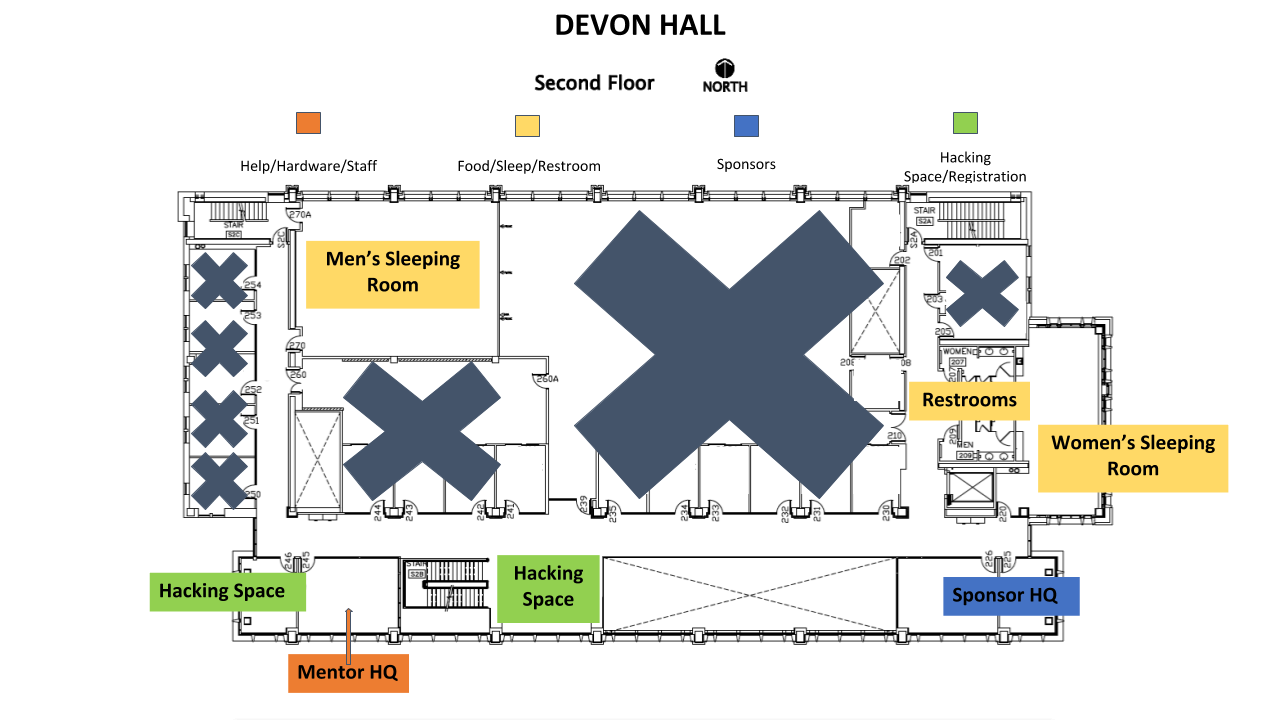
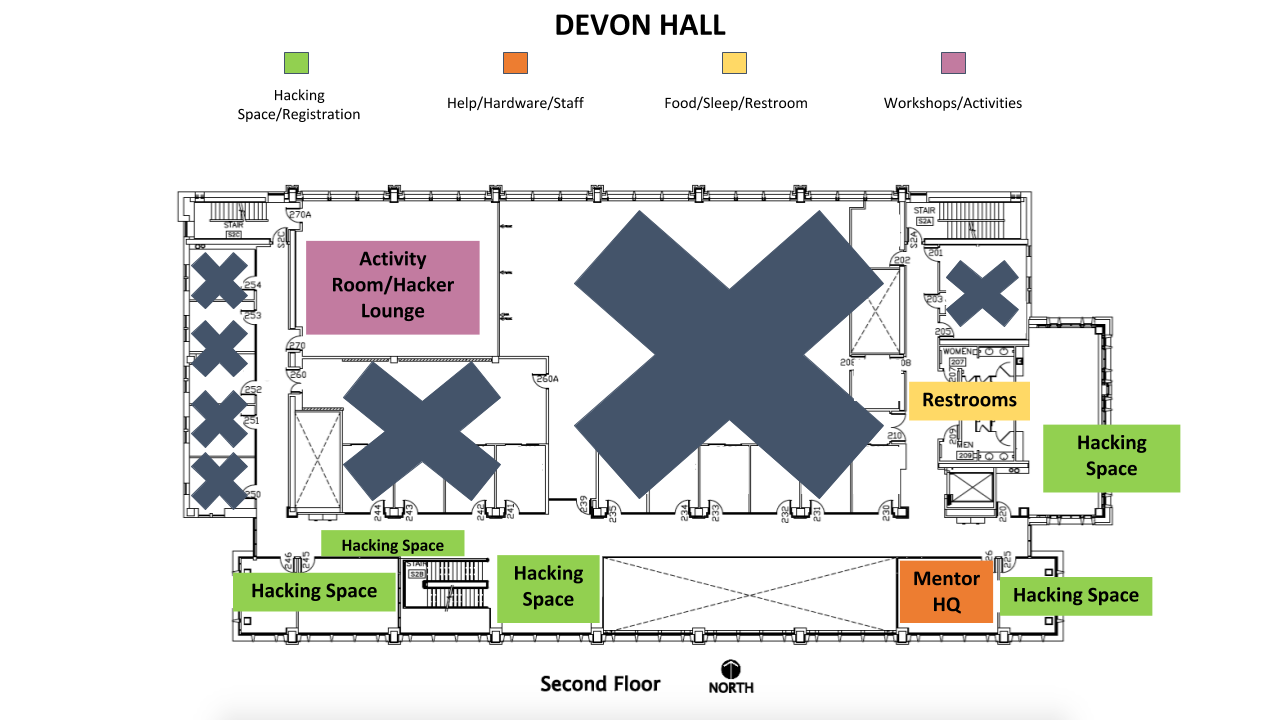
updated floor plans

diff --git a/live.html b/live.html
@@ -166,6 +166,9 @@
                         <div class="carousel-item">
                             <img class="d-block w-100" src="img/floor 5.png" />
                         </div>
+                        <div class="carousel-item">
+                            <img class="d-block w-100" src="img/repf.png" />
+                        </div>
                     </div>
                     <a class="carousel-control-prev" href="#floor-plans" role="button" data-slide="prev">
                         <span class="carousel-control-prev-icon" aria-hidden="true"></span>
